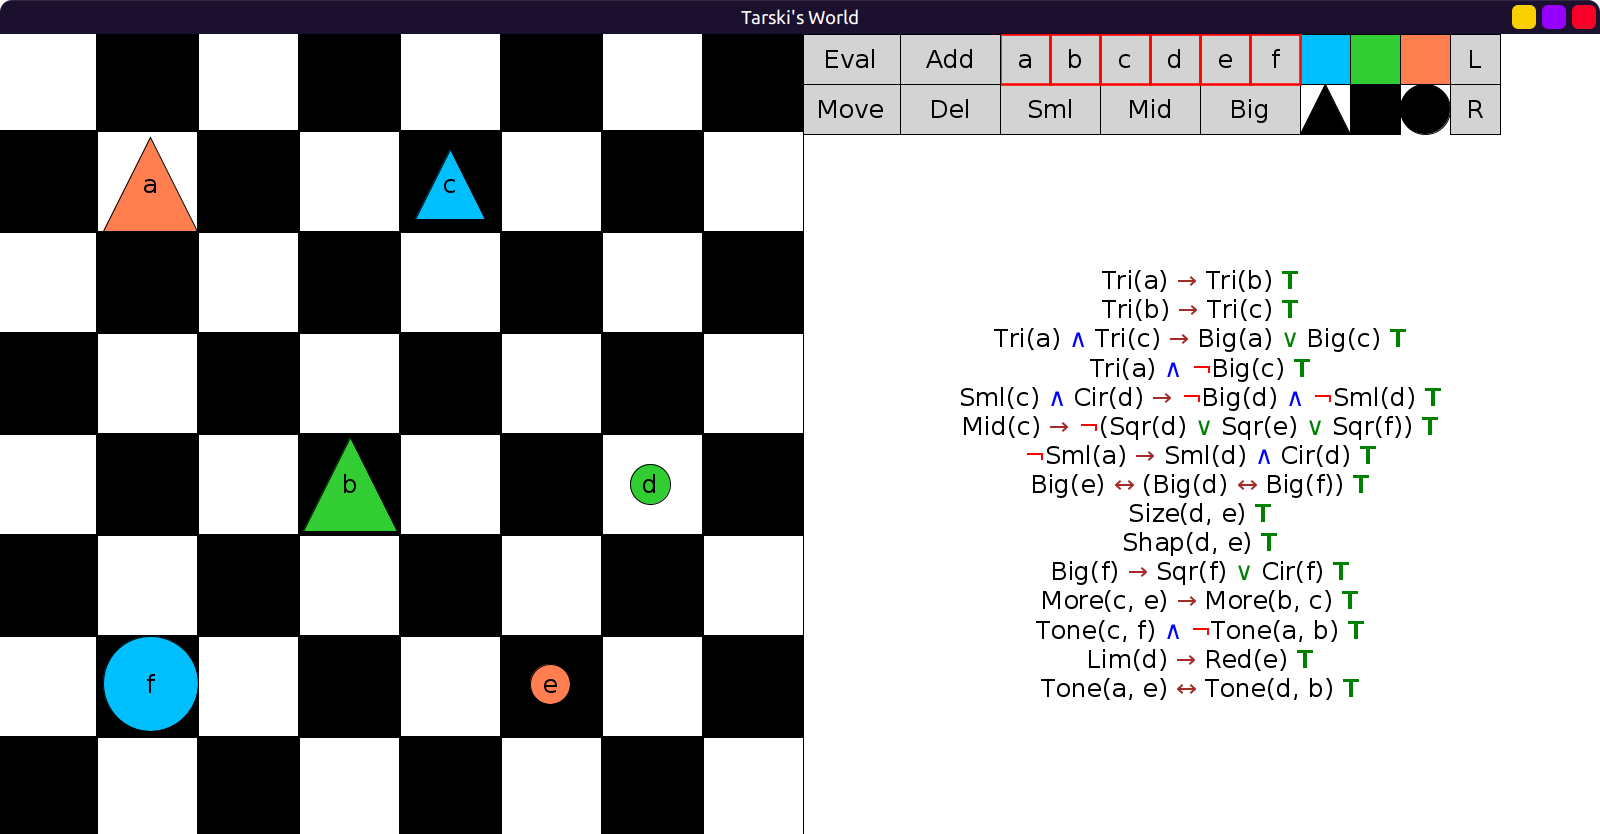
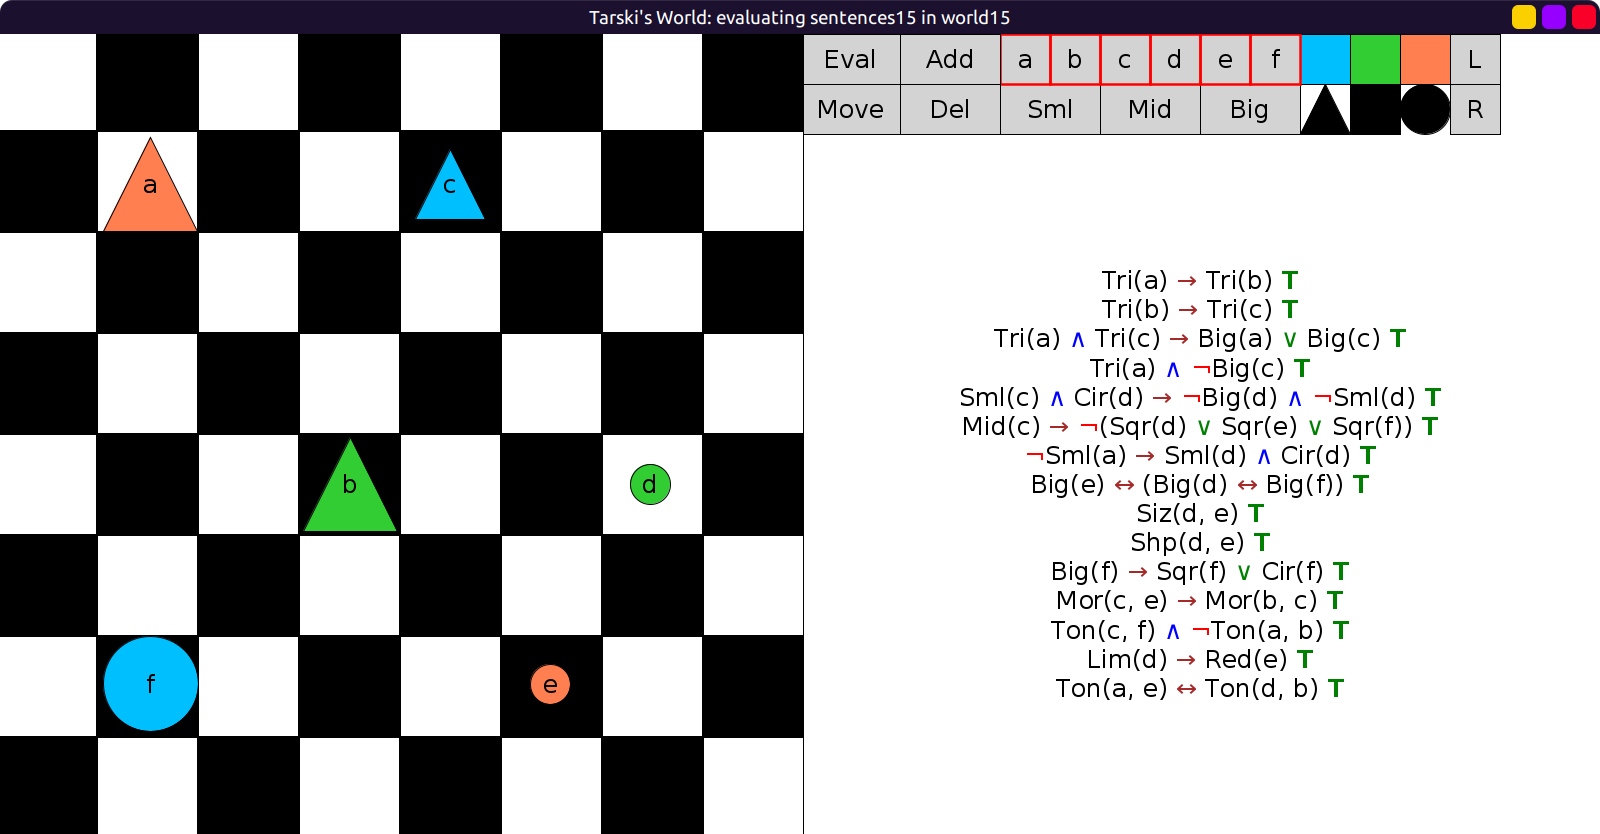
rework ex15

diff --git a/examples/propositional-logic/15/README.md b/examples/propositional-logic/15/README.md
@@ -1,34 +1,34 @@
 # 15 - Figuring out sizes, shapes and tones
 
-Start a new sentence file and use it to translate the following English sentences.
+In `sentences15`, translate the following English sentences.
 
-1. If a is a triangle, then `b` is also a triangle.
+1. If `a` is a triangle, then `b` is also a triangle.
 2. `c` is a triangle if `b` is.
-3. a and `c` are both triangles only if at least one of them is big.
-4. a is a triangle but `c` isn't big.
+3. `a` and `c` are both triangles only if at least one of them is big.
+4. `a` is a triangle but `c` isn't big.
 5. If `c` is small and `d` is a circle, then `d` is neither big nor small.
-6. `c` is medium only if none of d, e, and `f` are squares.
-7. `d` is a small circle unless a is small.
+6. `c` is medium only if none of `d`, `e`, and `f` are squares.
+7. `d` is a small circle unless `a` is small.
 8. `e` is big just in case it is a fact that `d` is big if and only if `f` is.
 9. `d` and `e` are the same size.
 10. `d` and `e` are the same shape.
 11. `f` is either a square or a circle, if it is big.
-12. `c` is bigger than `e` only if `b` is bigger than c.
-13. `c` and `f` have the same tone and a has a different tone than b.
+12. `c` is bigger than `e` only if `b` is bigger than `c`.
+13. `c` and `f` have the same tone and `a` has a different tone than `b`.
 14. If `d` has tone lime, then `e` has tone red.
-15. a and `e` have the same tone if and only if `d` and `b` do.
+15. `a` and `e` have the same tone if and only if `d` and `b` do.
 
 - Save these sentences as `sentences15`.
-- Then see if you can figure out the sizes, shapes and tones of a, b, c, d, e, f.
+- Then see if you can figure out the sizes, shapes and tones of `a, b, c, d, e, f`.
 - You will find it helpful to approach this problem systematically,
   filling in the following table as you reason about the sentences:
 
-|     | a | `b` | `c` | `d` | `e` | `f` |
-|:----|:-:|:-:|:-:|:-:|:-:|:-:|
-|Shape|   |   |   |   |   |   |
-|Size |   |   |   |   |   |   |
-|Tone |   |   |   |   |   |   |
+|     | `a` | `b` | `c` | `d` | `e` | `f` |
+|:----|:---:|:---:|:---:|:---:|:---:|:---:|
+|Size |     |     |     |     |     |     |
+|Shape|     |     |     |     |     |     |
+|Tone |     |     |     |     |     |     |
 
-- When you have filled in the table, use it to guide you in building a
-  world `grid15` in which the twelve English sentences are true.
+- When you have filled in the table, use it to guide you in building
+  `world15` in which the twelve English sentences are true.
 - Verify that your translations are true in this world as well.

diff --git a/examples/propositional-logic/15/solution.md b/examples/propositional-logic/15/solution.md
@@ -3,7 +3,8 @@
 Here are the sentences:
 
 ```scala
-fof"Tri(a) → Tri(b)",
+val sentences15 = Seq(
+  fof"Tri(a) → Tri(b)",
   fof"Tri(b) → Tri(c)",
   fof"(Tri(a) ∧ Tri(c)) → (Big(a) ∨ Big(c))",
   fof"Tri(a) ∧ ¬Big(c)",
@@ -18,12 +19,13 @@ fof"Tri(a) → Tri(b)",
   fof"Ton(c,f) ∧ ¬Ton(a,b)",
   fof"Lim(d) -> Red(e)",
   fof"Ton(a,e) ↔ Ton(d,b)"
+)
 ```
 
 Here is a world where they are all true:
 
 ```scala
-val grid15: Grid = Map(
+val world15: Grid = Map(
   (1, 1) -> Block(Big, Tri, Red, "a"),
   (1, 4) -> Block(Mid, Tri, Blu, "c"),
   (4, 3) -> Block(Big, Tri, Lim, "b"),
@@ -32,5 +34,7 @@ val grid15: Grid = Map(
   (6, 5) -> Block(Sml, Cir, Red, "e")
 )
 ```
+
+Evaluation, all true:
 
 ![15](15.png)
